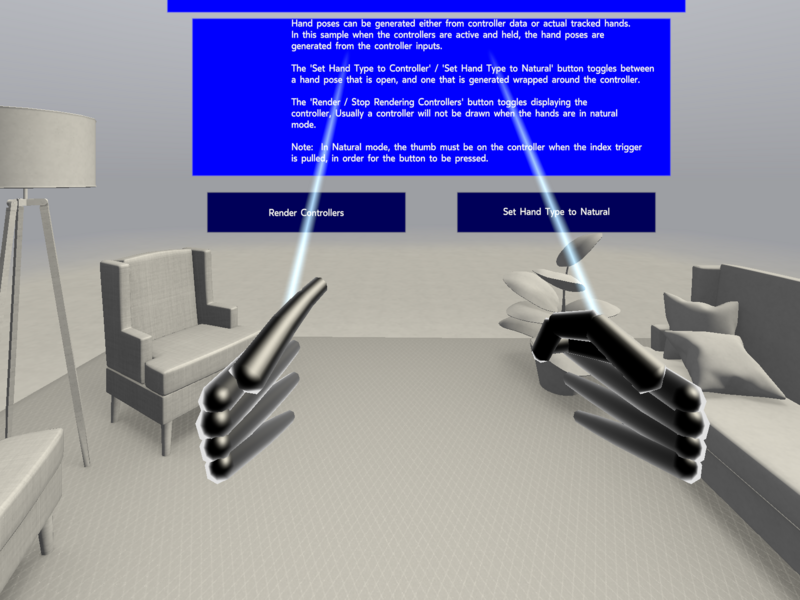
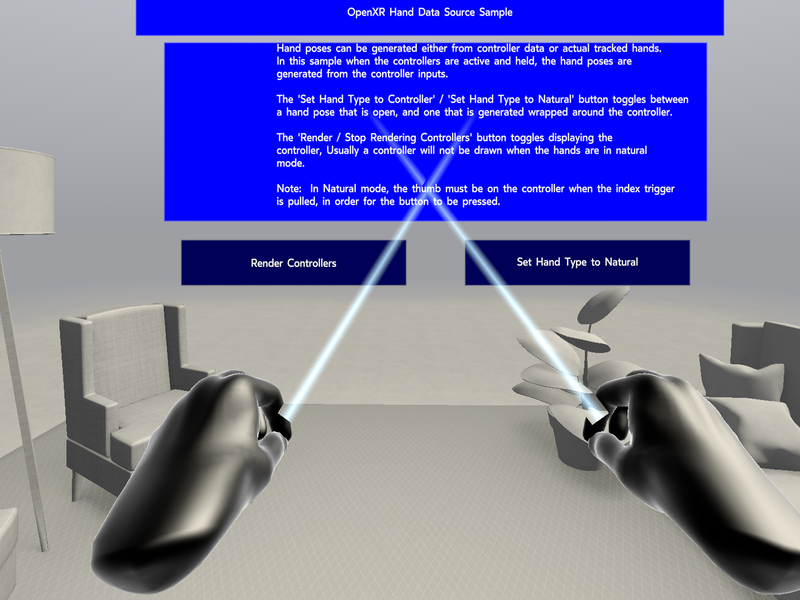
docs: retake the readme screenshots
The hands picture shows XrHandDataSource with both hands playing
two_hand_scale, the main one the new living room and the panels as they
are now, the keyboard picture the new virtual keyboard. The main one's
alt text said the cubes are hidden behind the TV stand, which it never
showed.

Claude-Session: https://claude.ai/code/session_01Hb8XsJPzmn7YpUZDtykfJP

diff --git a/README.md b/README.md
@@ -5,11 +5,11 @@ headset and two controllers driven by keyboard and mouse, with the app's frames 
 window or offscreen. No headset, no service, no daemon.
 
 ![The mirror window: both eyes of Meta's XrPassthroughOcclusion sample in the simulated living
-room, its cubes hidden behind the TV stand, with the simulator and device panels](docs/images/ui-passthrough.png)
+room, its cubes in front of the TV, with the simulator and device panels](docs/images/ui-passthrough.png)
 
-| Tracked hands pinching, driven by `puppetxrctl` | Meta's virtual keyboard, typed on with the controller ray |
+| Tracked hands playing `puppetxrctl gesture play two_hand_scale` | Meta's virtual keyboard, typed on with the controller ray |
 |---|---|
-| ![Hand tracking in XrHandDataSource](docs/images/hands.png) | ![XrVirtualKeyboard with a key held down](docs/images/virtual-keyboard.png) |
+| ![Both hands pinching and pulling apart in XrHandDataSource](docs/images/hands.png) | ![XrVirtualKeyboard with a key held down](docs/images/virtual-keyboard.png) |
 
 Agents working on this repository: read `AGENTS.md`.
 
